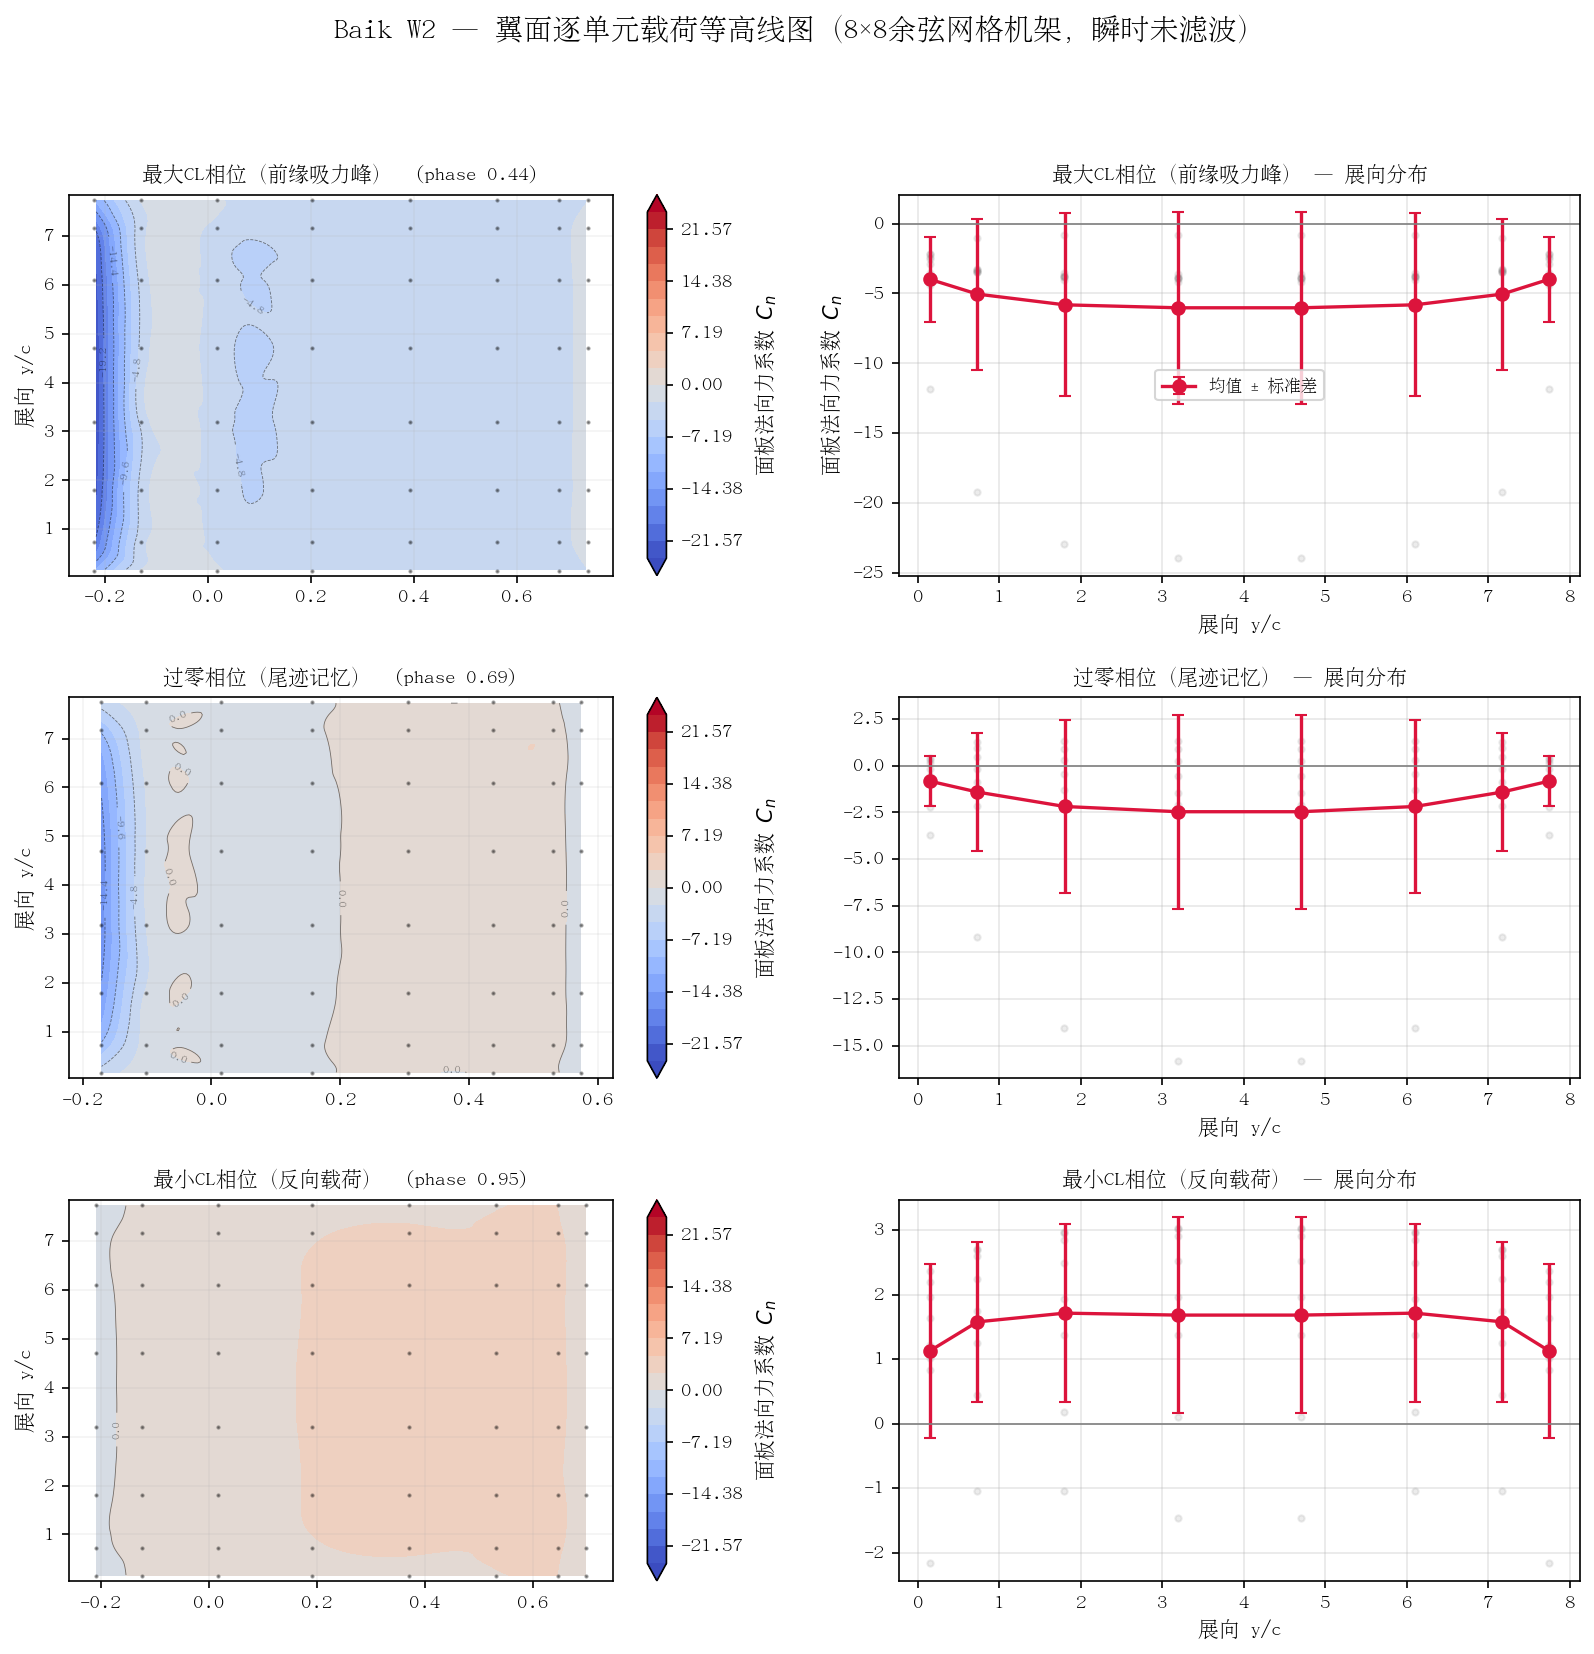
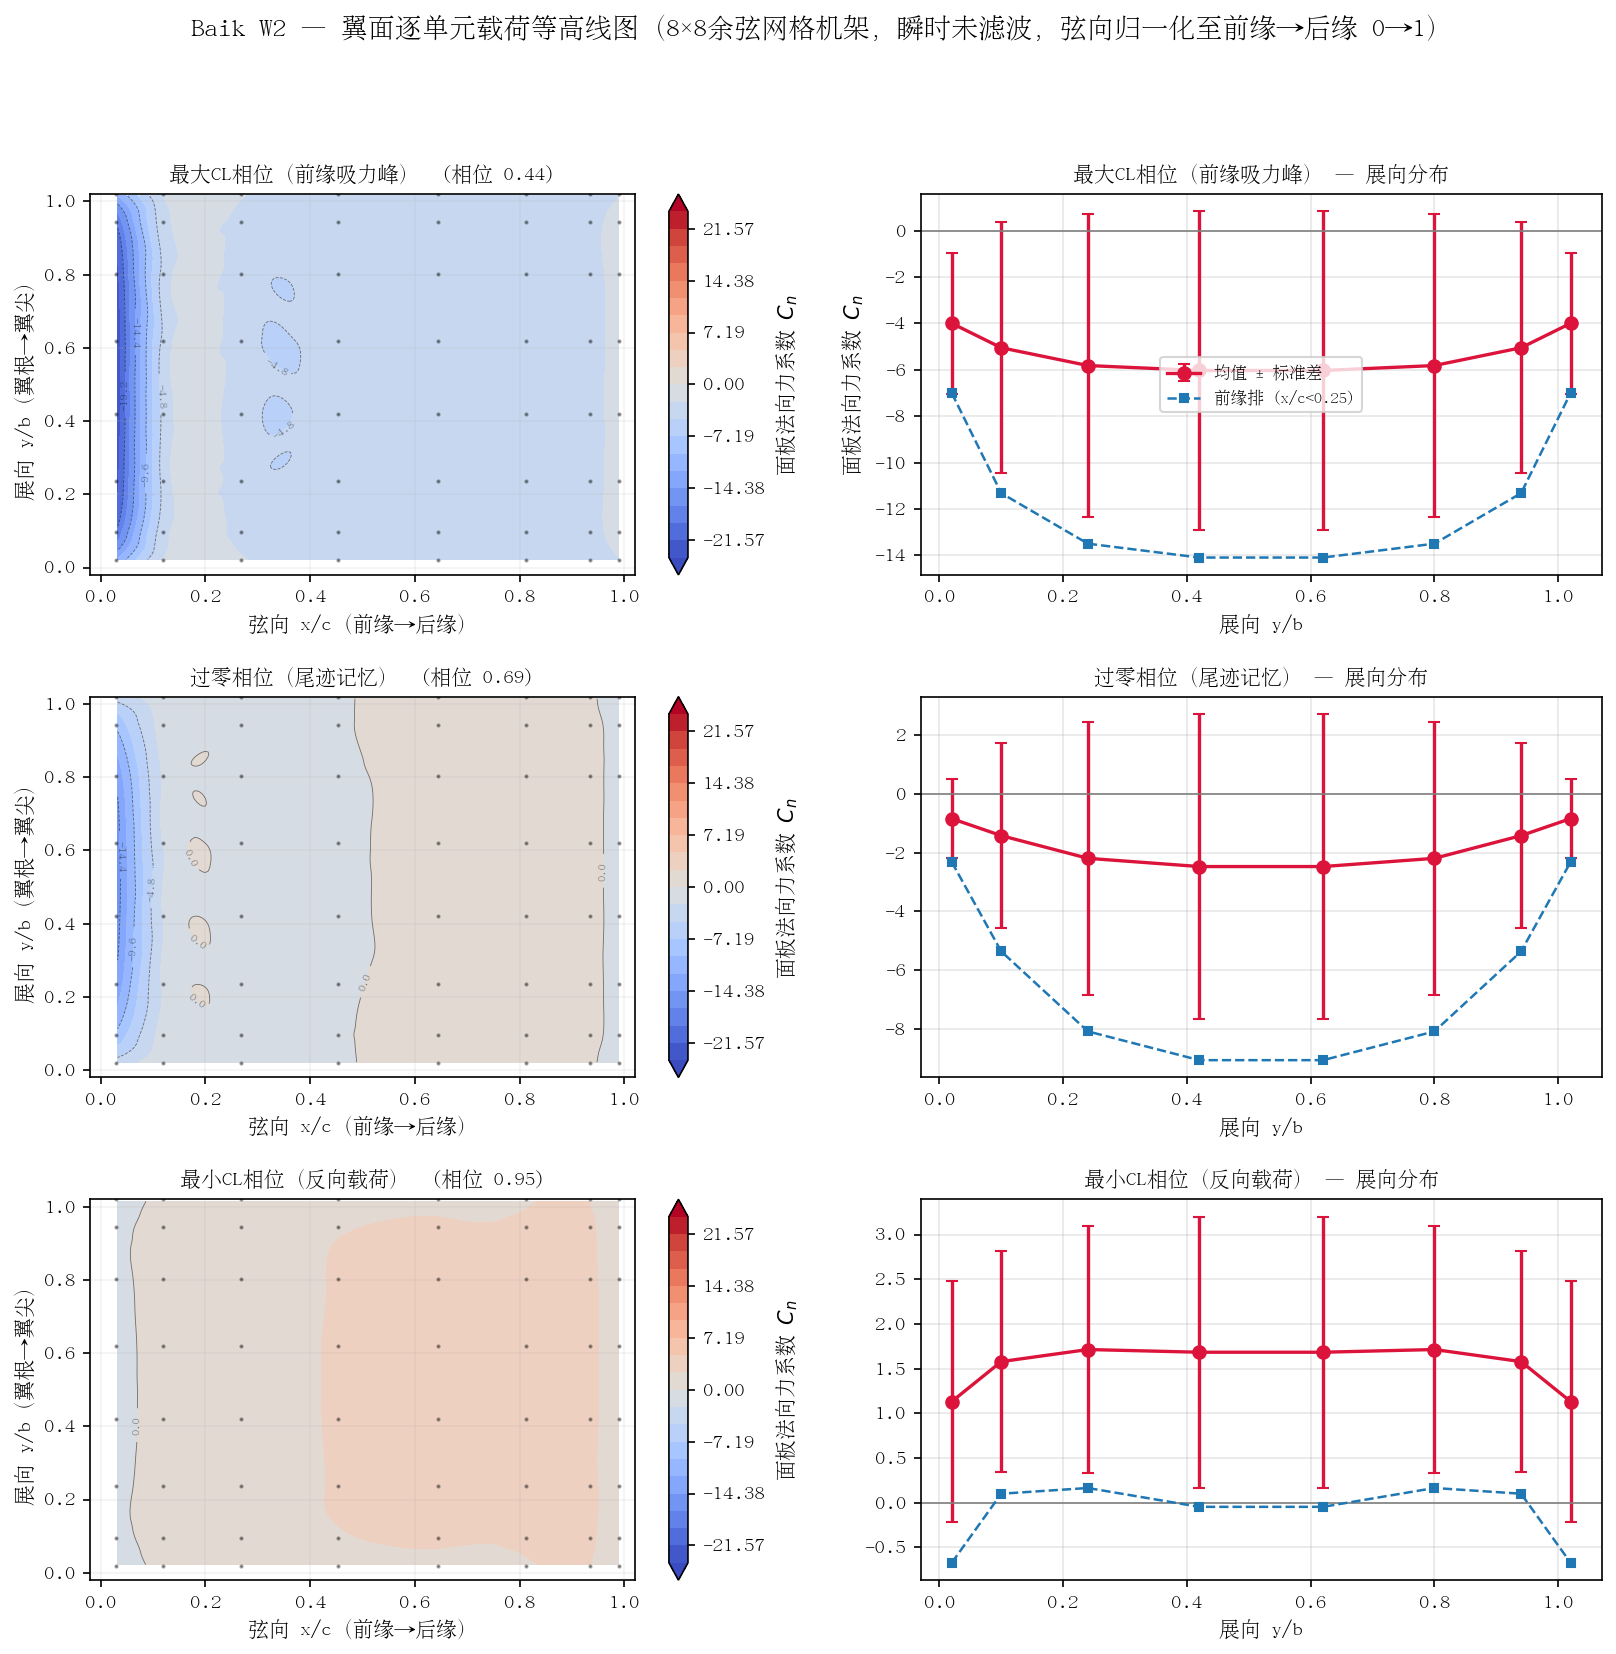
fix: contour figure normalized to wing-local coordinates (chord 0-1 LE-to-TE, span 0-1 root-to-tip)

diff --git a/platform/warp_vpm/bing_contour_fig.py b/platform/warp_vpm/bing_contour_fig.py
@@ -1,5 +1,5 @@
-"""Contour plots of per-panel load distribution (Baik W2, interpolated to a
-fine grid via cubic interpolation on panel centers)."""
+"""Contour plots of per-panel load, normalized to wing local coordinates
+(chord 0-1 LE→TE, span 0-1 root→tip) at each instantaneous phase."""
 import sys
 from dataclasses import replace as _replace
 from pathlib import Path
@@ -7,7 +7,9 @@ from pathlib import Path
 import numpy as np
 import matplotlib
 matplotlib.use("Agg")
-matplotlib.rcParams["font.sans-serif"] = ["WenQuanYi Micro Hei", "Noto Sans CJK SC", "SimHei", "AR PL UMing CN", "DejaVu Sans"]
+matplotlib.rcParams["font.sans-serif"] = [
+    "WenQuanYi Micro Hei", "Noto Sans CJK SC", "SimHei",
+    "AR PL UMing CN", "DejaVu Sans"]
 matplotlib.rcParams["axes.unicode_minus"] = False
 import matplotlib.pyplot as plt
 from scipy.interpolate import griddata
@@ -35,7 +37,7 @@ problem = pterasoftware.problems.UnsteadyProblem(
     movement=movement, only_final_results=False)
 solver = JointLEVTEVSolver(problem, JointConfig(enable_lev=False))
 solver.run(prescribed_wake=True, calculate_streamlines=False,
-               show_progress=False)
+           show_progress=False)
 
 U = np.pi * (1.0 / case.period_s) * case.chord_m / case.reduced_frequency
 q = 0.5 * case.rho_kg_m3 * U**2
@@ -56,7 +58,7 @@ for row, (label, step) in enumerate(
     sp_ = solver.steady_problems[step]
     panels = sp_.airplanes[0].wings[0].panels
     C, S = panels.shape
-    pts, vals = [], []
+    pts_raw, vals = [], []
     for jc in range(C):
         for sc in range(S):
             p = panels[jc, sc]
@@ -64,14 +66,34 @@ for row, (label, step) in enumerate(
             n = np.asarray(p.unitNormal_GP1)
             cn = float(f @ n) / (q * p.area)
             cpp = np.asarray(p.Cpp_GP1_CgP1)
-            pts.append([cpp[0] / case.chord_m, cpp[1] / case.chord_m])
+            pts_raw.append(cpp)
             vals.append(cn)
-    pts = np.array(pts)
+    pts_raw = np.array(pts_raw)
     vals = np.array(vals)
-    gx, gy = np.meshgrid(np.linspace(pts[:, 0].min() - 0.05,
-                                     pts[:, 0].max() + 0.05, 200),
-                         np.linspace(pts[:, 1].min() - 0.1,
-                                     pts[:, 1].max() + 0.1, 200))
+
+    # normalize to local wing coordinates: chord LE→TE = 0→1, span root→tip
+    # project onto the instantaneous chord and span directions
+    # find LE (min x along chord) and TE (max x) via panel vertices
+    le = np.array([np.asarray(panels[0, s].Flpp_GP1_CgP1) for s in range(S)])
+    te = np.array([np.asarray(panels[C - 1, s].Blpp_GP1_CgP1)
+                   for s in range(S)])
+    root_le = le[0]     # root leading edge (y = 0 side)
+    tip_le = le[-1]
+    root_te = te[0]
+    chord_vec = root_te - root_le        # LE→TE direction at root
+    span_vec = tip_le - root_le          # root→tip direction at LE
+    c_len = np.linalg.norm(chord_vec)
+    s_len = np.linalg.norm(span_vec)
+    c_hat = chord_vec / c_len
+    s_hat = span_vec / s_len
+    # project each collocation point onto local (chord, span) axes
+    local = pts_raw - root_le
+    xc = local @ c_hat / c_len           # 0 at LE, 1 at TE
+    ys = local @ s_hat / s_len           # 0 at root, 1 at tip
+    pts = np.column_stack([xc, ys])
+
+    gx, gy = np.meshgrid(np.linspace(-0.02, 1.02, 200),
+                         np.linspace(-0.02, 1.02, 200))
     gz = griddata(pts, vals, (gx, gy), method="cubic")
     if levels is None:
         vmax = np.nanmax(np.abs(vals))
@@ -84,31 +106,39 @@ for row, (label, step) in enumerate(
                     linewidths=0.4, alpha=0.5)
     ax.clabel(cs, fontsize=6, fmt="%.1f")
     ax.plot(pts[:, 0], pts[:, 1], "k.", ms=2, alpha=0.35)
-    ax.set_ylabel("展向 y/c")
-    ax.set_title(f"{label}  (phase {step / SPC % 1:.2f})", fontsize=10)
+    ax.set_xlabel("弦向 x/c（前缘→后缘）")
+    ax.set_ylabel("展向 y/b（翼根→翼尖）")
+    ax.set_title(f"{label}  (相位 {step / SPC % 1:.2f})", fontsize=10)
     plt.colorbar(cf, ax=ax, label="面板法向力系数 $C_n$")
     ax.grid(alpha=0.15)
 
     ax2 = axes[row, 1]
-    ax2.plot(pts[:, 1][np.argsort(pts[:, 1])],
-             vals[np.argsort(pts[:, 1])], ".", alpha=0.15, color="gray")
-    # strip mean
     strips = {}
     for (x, y), v in zip(pts, vals):
         strips.setdefault(round(y, 2), []).append(v)
-    ys = sorted(strips)
-    ax2.errorbar(ys, [np.mean(strips[y]) for y in ys],
-                 yerr=[np.std(strips[y]) for y in ys], fmt="o-",
-                 color="crimson", lw=1.6, capsize=3, label="均值 ± 标准差")
+    ys_sorted = sorted(strips)
+    means = [np.mean(strips[y]) for y in ys_sorted]
+    stds = [np.std(strips[y]) for y in ys_sorted]
+    ax2.errorbar(ys_sorted, means, yerr=stds, fmt="o-", color="crimson",
+                 lw=1.6, capsize=3, label="均值 ± 标准差")
+    for y_val in set(round(v[0], 2) for v in pts):
+        mask = pts[:, 0] < 0.25   # 前缘排
+        ax2.errorbar(ys_sorted, [np.mean([v for (x, y), v in zip(pts, vals)
+                                          if round(y, 2) == yy and x < 0.25])
+                                 for yy in ys_sorted],
+                     fmt="s--", color="tab:blue", lw=1.2, ms=4,
+                     label="前缘排 (x/c<0.25)")
+        break
     ax2.axhline(0, color="gray", lw=0.8)
-    ax2.set_xlabel("展向 y/c")
+    ax2.set_xlabel("展向 y/b")
     if row == 0:
         ax2.set_ylabel("面板法向力系数 $C_n$")
         ax2.legend(fontsize=8)
     ax2.set_title(f"{label} — 展向分布", fontsize=10)
     ax2.grid(alpha=0.3)
 
-fig.suptitle("Baik W2 — 翼面逐单元载荷等高线图（8×8余弦网格机架，瞬时未滤波）", fontsize=14)
-fig.savefig("/tmp/v5h15-paper/panel_contours.png", dpi=150,
+fig.suptitle("Baik W2 — 翼面逐单元载荷等高线图（8×8余弦网格机架，瞬时未滤波，"
+             "弦向归一化至前缘→后缘 0→1）", fontsize=13)
+fig.savefig("/tmp/v5h15-paper/panel_contours_cn.png", dpi=150,
             bbox_inches="tight")
-print("SAVED /tmp/v5h15-paper/panel_contours.png")
+print("SAVED /tmp/v5h15-paper/panel_contours_cn.png")
